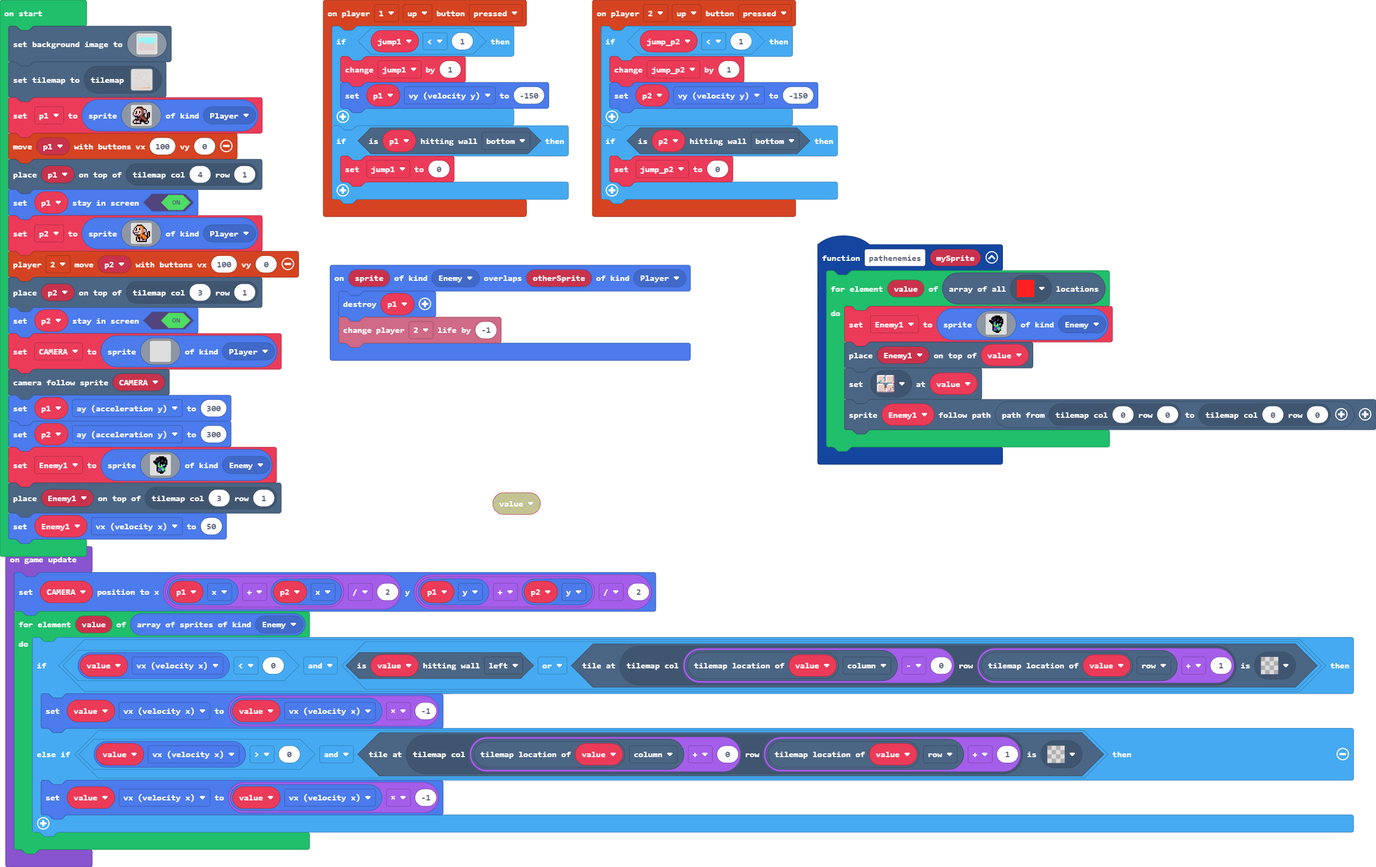
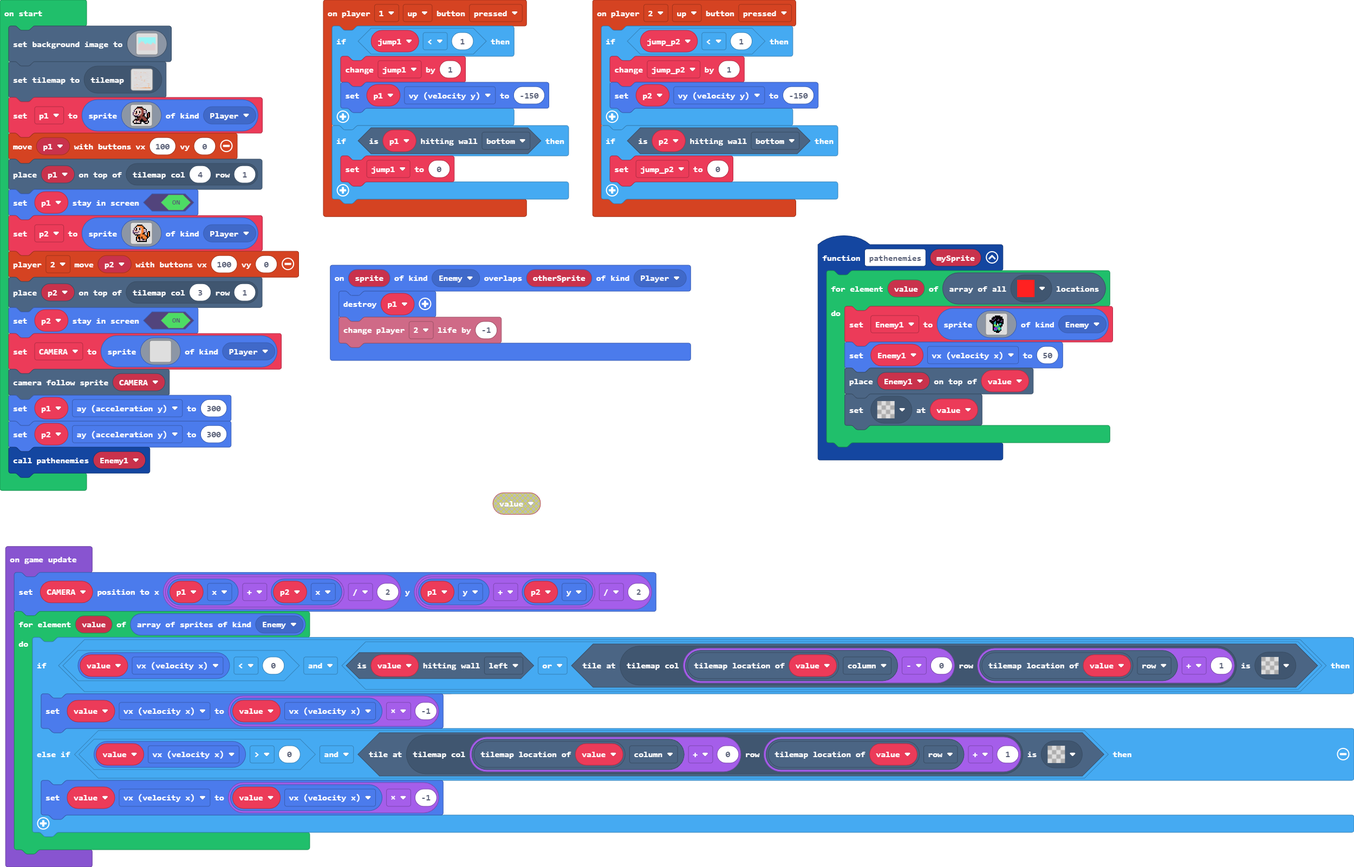
Update main.blocks, main.ts, tilemap.g.jres, tilemap.g.ts

diff --git a/tilemap.g.ts b/tilemap.g.ts
@@ -52,7 +52,7 @@ namespace myTiles {
 . . . . . . . . . . . . . . . . 
 `, [myTiles.transparency16], TileScale.Sixteen);
             case "level2":
-            case "level2":return tiles.createTilemap(hex`6400640000000000000000000000000000000000000000000000000000000000000000000000000000000000000000000000000000000000000000000000000000000000000000000000000000000000000000000000000000000000000000000000000000000000000000000000000000000000000000000000000000000000000000000000000000000000000000000000000000000000000000000000000000000000000000000000000000000000000000000000000000000000000000000000000000000000000000000001010101010101000000000000000000000000000000000000000000000000000000000000000000000000000000000000000000000000000000000000000000000000000000000000000000000000000000000000000000000000000000000000000000000000000000000000000000000000000000000000000000000000000000000000000000000000000000000000000000000000000000000000000000000000000000000000000000000000000000000000000000000000000000000000000000000000000000000000000000000000000000000000000000000000000000000000000000000000000000000000000000000000000000000000000000000000000000000000000000000000000000000000000000000000000000000000000000000000000000000000000000000000010101010101010101010000000000000000000000000000000000000000000000000000000000000000000000000000000000000000000000000000000000000000000001010101010100000000000000000000000000000000000000000000000000000000000000000000000000010101010101010000000000000000000000000000000000000000000000000000000000000000010101010101000000000000000000000000000000000000000000000000000000000000000000000000000000000000000000000000000000000000000000000000000000000001010101010000000000000000000000000000000000000000000000000000000000000000000000000000000000000000000000000000000000000000000000000000000000000000000000000000000000000000000000000000000000000000000000000000000000000000000001010102020202020101000000000000000000000000000000000000000000000000000000000000000001010101010100000000000000000000000000000000010101010101010100000000000000000000000000000000000000000000000000000000000001010101010101000000000000000000000000040202040000000000000000000000000000000000000000000000000000000000000000000000000000000000000000000001010101010000000000000000000000000000000000000000000000000000000000000000000000000101010000000000010101010101000001020202020201010000000000000000000000000000000000000000000000000000000000000000000000000000000000000000000000000000000101010101010101000000000000000000000000000000000000000000000000000000000000000000000101010101010000000000000000000000000000000000000000000000000000000000000000000000000000000000000000000000000000000000000000000000000000000000000000000000000000000000000000000000000000000000000000000000000000000000000000000000000000000000000000000000000000000000000000000000000000000000000000000000000101010101000000000000000000000000000000000000000000000000000000000000000000000000000000000000000000000000000000000000000000000000000000000000000000000000000000000000000000000000000000000000000000000000000000000000000000000000000000000000000000000000000000000000000000000000000101010101000000000000000000000000000000000000000000000000000001010101010101010100000000000000000000000000000000000000000000000000000000000000000000000000010101010101000000000000000000000000000001010100000000000000000000000000000000000000000000000000000000000000000000000000000000000000000000000001040202020404000000000000000000000000000000000000000000000000000000000000000000000000000000000000000000000000000000000000000000000000000000000001010101010000000000000000000000000000000000000000000000010104040101010000000101010101010101010101010101010000000000000000000001010101010101010101000000000000000000000000000000000000000000000001010101010000000101010000000000000000000000000000000000000000000000000000000000000000000000000000000000000000000000000000000000000000000000000000000000000000000000000000000000000001010101010101000000000000000000000000000000000000000000000000000000000000000000000000000000000000000000000000000000000000000000000000000000000000000000000000000000000000000000000000000000000000000000000000000000000000000000000000000000000000000000000000000000000000000000000000000000000000000000000000000000000000000000000000000000000000000000000000000000000000000000000000000000000000000000000000000000000000000000000000000000000000000000000000000000000000000000000000000000000000000000000000000000000000000000000000000000000000000000000000000001010101010100000000000000000000000000000000000000000000000000000000000000000000000000000000000000010100000000000000000000000000000000000000000101010101010101010101000000000000000000000001010101010101000000000000000000000000000000000000000001010101010000000000000000000000000101010000000000000001010101010000000000000000000000000000000000000000000000000000000000000000000000000000000000000000000000000000000000000000000000000101010101000000000000000000000000000000000001010100000000000000000000000000000000000000000000000000000000000000000000000000000000000000000000000000000000000000000000000000000000000000000000000000000000000000000000000000000000000000000000000000000000000000000000000000000000000000000000000100000000000000000000000000000000000000000000000000000000010101010101010000000000000000000000000000000000000000000000000000000000000000000000000000000000000000000000000000000000000000000000000000000000010101010000000000000000000000000000000000000000000000000000000000000000000000000000000000000000010101010000000000000000000000000000000000000000000000000000000000000001010101000000000000000000000000000000000000000000000000000000000000000000000000000000000000000000000000000000000000000000000000000000000000000000000000000000000000000000000000000000000000000000000000000000010100000000000000000000000000000000000000000000000000000000000000000000000000000000000000000000000000000000000000000000000000000000000000000000000000000000000000000000000000000000000000000000000000000000000000000000000000000000000000000000000000000000000000000000000001010101010100000000000001010101010101010000000000000000000000000000000000000000000001010101010101010101000000000000000000000000000000000000000000000000000000000000000000000000000000000000000000000000000000000000000000010101010000000000000000000000000000000001020200000000000101010101010000000000000000000000000000000000000000000000000000000000000000010000000000000000000000000000000000000000000000000000000000000000000000000000000000000000000000000101010101010102020000000000000000000000000000000000000000000000000000000000000000000000000000000101010000000000000000000000000000000000000000000000000000000000000000000000000000000000000000000000000000000000000000000200000000000000000000000000000000000000000000000000000000000001010101010101010100000000000000000000000000000000000000000000000000000000000000000000000000000000000000000000000000000000000000000000000002000000000000000000000000000000000000000000000000000000000000000000000000000000000000000000000000000000000000000000000000000000000000000101010000000000000000000000000000000000000000000000000000000000020000000000000000000000000000000000000000000000000000000000000000000000000000000000000000000000000000000000000000000000000000000000000000000001010101010100000000000000000000000000000000000000000000000200000000000000000000000000000000000000000000000000000000000000000000000000000000000000000000000000000000000000000000000000000000000000000000000000000000000000000000000000000000000000000000000000000002000000000000000000000000000000000000000000000000000000000000000000000000000000000000000000000000000000000000000000000000000000000000000000000000000000000000000000000000010101010101010000000000000000020000000000000000000000000000000000000000000000000000000000000000000000000000000000000000000000000000000000000000000000000000000000000000000000000000000000000000000000000000000000000000000000000000000200000000000000000000000000000000000000000000000000000000000000000000000000000000000000000000000000000000000000000000000000000000000402020202040402020204000000000000000000000000000000000000000000000002000000000000000000000000000000000000000000000000000000000000000000000000000000000000000000000000000000000000000000000000000101010101010101010101010101010101010000000000000000000000000000000000000402020101000000000000000000000000000000000000000000000000000000000000000000000000000000000000000101010000000000000000000000000100000000000000000000000000000000000000000000000000000000000000000000010101010100000000000000000000000000000000000000000000000000000000000000000000000000000001010101010100000000000000000000000000000000000000000000000000000000000000000000000001010101010101010000000000000000000000000000000000000000000000000000000000000000000000000000000000000000000000000101000000000000000000000000000000000000000000000000000000000000000000000000000000000000000000000000000000000000000000000000000000000000000000000000000000000000000000000000000000000000000000000001010100000000000000000000000000000000000000000000000000000000000000000000000000000000000000000000000000000000000000000000000000000000000000000000000000000000000000000000000000000000000000000101010101000000000000000000000000000000000000000000000001010000000000000000000001010100000000000000000000000000000000000000000000000000000000000000000000000000000000000000000000000000000000000000000100000000000000000000000000000000000000000000000000000000000001010100000000000000000001010000000000000000000000000000000000000000000101010101010101010000000000000000000000000000000000000000000000000100000000000000000000000000000000000000000000000000000000000000000000000000000000000000000001010000000000000000000000000000000000000000000000000000000001010101010101000000000000000000000101010000000000000000000000000000000000000000000000000000000000000000000000000000000000000000000000000000000100000000000000000000000004020204000000000000000000000000000000000000000000000000000101010100000000000000000000000000000000000000000000000000000000000000000000000000000000000000000000000000000000000000010000000000000000000101010101010101000000000000000000000000000000000000000000000000000000000000000000000000000000000000000000000000000000000000000000000000000000000000000000000000000000000000000000000001010000000000000000000000000000000000000000000000000000000000000000000000000000000000000000000000000000000000000000000000000000000000000000000000000000000000000000000000000000000000000000000000000000000001010000000000000000000000000000000000000000000000000000000000000000000000000000000002020400000000000000000000000000000000000000000000000000000000000000000000000000000000000000000000000000000000000000000000000000000000000000000000000000000000000000000000000000000000000001010000000002010101010101010101000000000000000000000000000000000000000000000000000000000000000000000000000000000000000000000000000000000000000000000000000000000000000101010101010202020202040000000000000000000000020000000000000000000000000000000000000000000000000000000000000000000000000000000000000000000000000000000000000000000000000000000000000000000000000000000000000000000001010101010101010000000000000000000200000000000000000000000000000000000000000000000000000000000000000000000000000000000000000000000000000000000000000000000000000000000000000000000000000000000000000000000000000000000001010100000000000002000000000000000000000000000000000000000000000000000000000000000000000000000000000000000000000000000000000000000000000101010000000000000000000000000000000000000000000000000000000000000000010000000000020000000000000000000000000101010101010000000000000000000000000000000000000000000000000000000000000000000000000000010100000000000000000000000000000000000000000000000000000000000000000000000000000000000200000000000000000000010100000000000000000000000000000000000000000000000000000000000000000000000000000000000001010000000000000000000000000000000000000000000000000000000000000000000000000000000000000002000000000000000000000000000000000000000000000000000000000000000000000000000000000000000000000000000001010101000000000000000000000000000000000000000000000000000000000000000000000000000000000000000000020000000000000000000000000000000000000000000000000000000000000000000000000000000000000000000000010101000000000000000000000000000000000000000000000000000000000000000000000000000000000000000000000000000200000000000000000000000000000000000000000000000000000000000000000000000000010000000000000000010000000000000000000000000000000000000000000000000000000000000000000000000000000000000000000000000000000402010101010100000000000000000000000000000000000000000000000000000000000000000101010101010000000000000000000000000000000000000000000000000000000000000000000000000000000000000000000000000000000001010101010000000000000000000000000000000000000000000000000000000000000000000000000000000000000000000000000000000000000000000000000000000000000000000000000101000000000000000000000000000000000101010101000000000000000000000000000000000000000000000000000000000000000000000000000000000000000000000000000000000101010101010000000000000000000000000000000001010100000000000000000000000000000000000100000000000000000000000000000000000000000000000000000000000000000000000000000000000000000000000000000000000000000000000000000000000000000000000000000001010101000000000001010101010000000000000000000000000000000000000000000000000000000000000000000000000000000000000000000000000000000000000000000000000000000000000000000000000000000000000000010101010101000000000000000000000000000000000000000000000000000000000000000000000000000000000000000101010000000000000000000000000000000000000000000000000000000001010101010000000000000000000000010101000000000000000000000000000000000000000000000000000000000000000000000000000000000000000000000001010100000000000000000000000000000000000000000000000000000000000000000000000000000000000000000000000000000000000000000000000000000000000000000000000000000001010101010101000000000000000000000000000000000000000000000000000000000000000000000000000000000000000000000000000000000000000001010101010101000000000000000000000000000000000000000000000000000000000000000000000000000000000000000000000000000000000000000000000000000000000000000000000000000000000000000000000000000000000000000000000000000000000000000000000000000000000000000000000000000000000000000000000000000000000000000000000000000000000000000000000000000000000000000000000000000000000000000000000000000000000000000000000000000000000000000000000000000000000000000000000000000000000000000001010101010000000000000000000000000000000000000000000000000000000000000000000000000000000000000000000000000000000000000001010101010101010000000000000000000000000000000000000000000000000000000000000000000000000000000000000000000000000000000000000000000000000000000000000000000000000000000000000000000000000000000000000000000000000000000000000000000000000000000000000000000000000000000000000000000000000000000000000000000101010000000000000000000000000000000000000000000000000000000102020202020202020202020100000000000000000000000000000000000000000000000100000000000000000000000000000000010101010101010101010101010101010100000001000000000000000000000000000000000000000000010101010101010101010101010101010101000000000000000000000000000000000000000101010101000000000000000000000000000000000000000000000000000000000000000000000000000000000000000000000000000000000000010101010000000000000000000000000000000000000101000000000000000000000000000000000000000000000000000000000000000000000000000000000000000000000000000000000000000000000000000000000000000000000000000000000000000000000000000000000000000000000000000000000000000000000000000000000000000000000000000000000000000000000000000001000000000000000000000000000000000000000000000000000000000000000000000000000000000000000000000000000000000000000000000000000000000000000000000000000000000000000000000000000001020202020202010000000000000101010100000000000000000000000000000000000000000000000001010100000000000000000000000000000000000000000000000000000000000000000000000000000000000000000000000000000101010101010101010101010101010000000000000000000000000000000000000000000000000000000000000000000000010000000000000000000000000000000000000000000000000000000000000000000000000000000000000000000000000000000000000000000000000000000000000000000000000000000000000000000000000000000000000000000000000000000000000000000000000000000000000000000000000000000000000000000000000000000000000000000000000000000000000000000000000000000000000000000000000000000000000000000000000000000000000000000000000000000000000000000000000000000000000000000000000000000000000000000202020201000000000000000000000101010202020203030300000000000000000000000000000000000000000000000000000101010101010101010000000000000000000000000000000000000000000000000000000000000000000000000000000002010101000000000000000000000000000001010101010100000000000000000000000000000000010101010101010000000000000000000000000000000000000000000000000000000000000000000000000000000000000000000000000000000000020000000000000000000000000000000000000000000000000000000000000000000000000000000000000000000000000000000000000000000000000000000000000000000000000000000000000000000000000000000000000001010000000000000200000000000000000000000000000000000000000000000000000000000000000000000000000000000000000000000000000000000000000000000001010100000000000000000000000000000000000000000000000001010101000000000000000002000000000000000000000000000000000000000000000000000000000000000000000000000000000000000000000000010000000000000000000000000000010101010000000000000000000000000001010101010101000000000000000000000000020000000000000000000000000000000000000000000001010101010101000100000000000000000000000001010101010000000000000000000000000000000000000000000000000000000001010101000000000000000000000000000000000000000200000000000000000000000000000000000000000000000000000000000101000000000000000000000000000000000000000000010101000000000000000000000000000000000000000000000000000000000000000000000000000000000000000002000000000000000000000000000000000000000000000000000000000000000000000000000000000000000000000000000000000000000101010000000000000000000000000000000000000000000000000000000000000000000000000000000000020000000000000000000000000000000000000000000000000000000000000000000000000000000000010101010000000000000000000000000000000000000000000000000000000000000001010100000000000000000000000000000000000000000200000000000000000000000000010101010101010101010000000000000000000000000000000101010000000001010000000000000000000000000000000000000000000000000001010101000000000000000000000000000000000000000000000002000000000000000000000000000000000000000000000000000000000101000000000000000000000000000000000000000000000000000000000000000000000000000001000000000000000000000000000000000000000000000000000000000100020000000000000000000000000000000000000000000000000000000000010101010100000000000000000000000000000000000000000000000000000000000000000001000000000000000000000000000000000000000000000000000000010100000200000000000000000000000000000000000000000000000000000000000000000000010100000000000000000000000000000000000000000000000000000000010101000000000000000000000000000000000000000000000000000000010000000002000000000000000000000000000000000000000000000000000000000000000000000000010101010000000000000000000000000000000000000000000000000000000000000000000000000000000000000000000000000000000000010000000000020000000000000000000000000000000000000000000000000000000000000000000000000000000001000000000000000000000000000000000000000000000000000000000000000000000000020202020202020202020000000000000000000000000200000002020202020202000000000000000000000000000000000000000000000000000000000000000000000000000000000000000000000000000000000000020202020202020202020202020202020202020202020202020202020202020202020202020202020202020202020000000000000000000000000000000000000000000002020202020000000000000000000000000002020202020202020202020202020202020202020202020202020202020202020202020202020202020202020202020202020202020202020202020202020202020202020202020202020202020202020202020202020202020202020202020202020202020202020202020202020202020202020202020202020202020202020202020202020202020202020202020202020202020202020202020202020202`, img`
+            case "level2":return tiles.createTilemap(hex`6400640000000000000000000000000000000000000000000000000000000000000000000000000000000000000000000000000000000000000000000000000000000000000000000000000000000000000000000000000000000000000000000000000000000000000000000000000000000000000000000000000000000000000000000000000000000000000000000000000000000000000000000000000000000000000000000000000000000000000000000000000000000000000000000000000000000000000000000001010101010101000000000000000000000000000000000000000000000000000000000000000000000000000000000000000000000000000000000000000000000000000000000000000000000000000000000000000000000000000000000000000000000000000000000000000000000000000000000000000000000000000000000000000000000000000000000000000000000000000000000000000000000000000000000000000000000000000000000000000000000000000000000000000000000000000000000000000000050000000000000000000000000000000000000000000000000000000000000000000000000000000000000000000000000000000000000000000000000000000000000000000000000000000000000000000000000000000000000000000000000000010101010101010101010005000000000000000000000000000000000000000000000000000000000000000000000000000000000000000000000000000000000000000001010101010100000000000000000000000000000000000000000000000000000000000000000000000000010101010101010000000000000000000000000000000000000000000000000000000000000000010101010101000000000000000000000000000000000000000000000000000000000000000000000000000000000000000000000000000000000000000000000000000000000001010101010000000000000000000000000000000000000000000000000000000000000000000000000000000000000000000000000000000000000000000000000000000000000000000000000000000000000000000000000000000000000000000000000000000000000000000001010102020202020101000000000000000000000000000000000000000000000000000000000000000001010101010100000000000000000000000000000000010101010101010100000000000000000000000000000000000000000000000000000000000001010101010101000000000000000000000000040202040000000000000000000000000000000000000000000000000000000000000000000000000000000000000000000001010101010000000000000000000000000000000000000000000000000000000000000000000000000101010000000000010101010101000001020202020201010000000000000000000000000000000000000000000000000000000000000000000000000000000000000000000000000000000101010101010101000000000000000000000000000000000000000000000000000000000000000000000101010101010000000000000000000000000000000000000000000000000000000000000000000000000000000000000000000500000000000000000000000000000000000000000000000000000000000000000000000000000000000000000000000000000000000000000000000000000000000000000000000000000000000000000000000000000000000000000000000000000101010101000000000000000000000000000000000000000000000000000000000000000000000000000000000000000000000000000000000000000000000000000000000000000000000000000000000000000000000000000000000000000000000000000000000000000000000000000000000000000000000000000000000000000000000000000101010101000000000000000000000000000000000000000000000000000001010101010101010100000000000000000000000000000000000000000000000000000000000000000000000000010101010101000000000000000000000000000001010100000000000000000000000000000000000000000000000000000000000000000000000000000000000000000000000001040202020404000000000500000000000000000000000000000000000000000000000000000000000000000000000000000000000000000000000000000000000000000000000001010101010000000000000000000000000000000000000000000000010104040101010000000101010101010101010101010101010000000000000000000001010101010101010101000000000000000000000000000000000000000000000001010101010000000101010000000000000000000000000000000000000000000000000000000000000000000000000000000000000000000000000000000000000000000000000000000000000000000000000000000000000001010101010101000000000000000000000000000000000000000000000000000000000000000000000000000000000000000000000000000000000000000000000000000000000000000000000000000000000000000000000000000000000000000000000000000000000000000000000000000000000000000000000000000000000000000000000000000000000000000000000000000000000000000000000000000000000000000000000000000000000000000000000000000000000000000000000000000000000000000000000000000000000000000000000000000000000000000000000000000000000000000000000000000000000000000000000000000000000000000000000000000001010101010100000000000000000000000000000000000000000000000000000000000000000000000000000000000000010100000000000000000000000000000000000000000101010101010101010101000000000000000000000001010101010101000000000000000000000000000000000000000001010101010000000000000000000000000101010000000000000001010101010000000000000000000000000000000000000000000000000000000000000000000000000000000000000000000000000000000000000000000000000101010101000000000000000000000000000000000001010100000000000000000000000000000000000000000000000000000000000000000000000000000000000000000000000000000000000000000000000000000000000000000000000000000000000000000000000000000000000000000000000000000000000000000000000000000000000000000000000100000000000000000000000000000000000000000000000000000000010101010101010000000000000000000000000000000000000000000000000000000000000000000000000000000000000000000000000000000000000000000000000000000000010101010000000000000000000000000000000000000000000000000000000000000000000000000000000000000000010101010000000000000000000000000000000000000000000000000000000000000001010101000000000000000000000000000000000000000000000000000000000000000000000000000000000000000000000000000000000000000000000000000000000000000000000000000000000000000000000000000000000000000000000000000000010100000000000000000000000000000000000000000000000000000000000000000000000000000000000000000000000000000000000000000000000000000000000000000000000000000000000000000000000000000000000000000000000000000000000000000000000000000000000000000000000000000000000000000000000001010101010100000000000001010101010101010000000000000000000000000000000000000000000001010101010101010101000000000000000000000000000000000000000000000000000000000000000000000000000000000000000000000000000000000000000000010101010000000000000000000000000000000001020200000000000101010101010000000000000000000000000000000000000000000000000000000000000000010000000000000000000000000000000000000000000000000000000000000000000000000000000000000000000000000101010101010102020000000000000000000000000000000000000000000000000000000000000000000000000000000101010000000000000000000000000000000000000000000000000000000000000000000000000000000000000000000000000000000000000000000200000000000000000000000000000000000000000000000000000000000001010101010101010100000000000000000000000000000000000000000000000000000000000000000000000000000000000000000000000000000000000000000000000002000000000000000000000000000000000000000000000000000000000000000000000000000000000000000000000000000000000000000000000000000000000000000101010000000000000000000000000000000000000000000000000000000000020000000000000000000000000000000000000000000000000000000000000000000000000000000000000000000000000000000000000000000000000000000000000000000001010101010100000000000000000000000000000000000000000000000200000000000000000000000000000000000000000000000000000000000000000000000000000000000000000000000000000000000000000000000000000000000000000000000000000000000000000000000000000000000000000000000000000002000000000000000000000000000000000000000000000000000000000000000000000000000000000000000000000000000000000000000000000000000000000000000000000000000000000000000000000000010101010101010000000000000000020000000000000000000000000000000000000000000000000000000000000000000000000000000000000000000000000000000000000000000000000000000000000000000000000000000000000000000000000000000000000000000000000000000200000000000000000000000000000000000000000000000000000000000000000000000000000000000000000000000000000000000000000000000000000000000402020202040402020204000000000000000000000000000000000000000000000002000000000000000000000000000000000000000000000000000000000000000000000000000000000000000000000000000000000000000000000000000101010101010101010101010101010101010000000000000000000000000000000000000402020101000000000000000000000000000000000000000000000000000000000000000000000000000000000000000101010000000000000000000000000100000000000000000000000000000000000000000000000000000000000000000000010101010100000000000000000000000000000000000000000000000000000000000000000000000000000001010101010100000000000000000000000000000000000000000000000000000000000000000000000001010101010101010000000000000000000000000000000000000000000000000000000000000000000000000000000000000000000000000101000000000000000000000000000000000000000000000000000000000000000000000000000000000000000000000000000000000000000000000000000000000000000000000000000000000000000000000000000000000000000000000001010100000000000000000000000000000000000000000000000000000000000000000000000000000000000000000000000000000000000000000000000000000000000000000000000000000000000000000000000000000000000000000101010101000000000000000000000000000000000000000000000001010000000000000000000001010100000000000000000000000000000000000000000000000000000000000000000000000000000000000000000000000000000000000000000100000000000000000000000000000000000000000000000000000000000001010100000000000000000001010000000000000000000000000000000000000000000101010101010101010000000000000000000000000000000000000000000000000100000000000000000000000000000000000000000000000000000000000000000000000000000000000000000001010000000000000000000000000000000000000000000000000000000001010101010101000000000000000000000101010000000000000000000000000000000000000000000000000000000000000000000000000000000000000000000000000000000100000000000000000000000004020204000000000000000000000000000000000000000000000000000101010100000000000000000000000000000000000000000000000000000000000000000000000000000000000000000000000000000000000000010000000000000000000101010101010101000000000000000000000000000000000000000000000000000000000000000000000000000000000000000000000000000000000000000000000000000000000000000000000000000000000000000000000001010000000000000000000000000000000000000000000000000000000000000000000000000000000000000000000000000000000000000000000000000000000000000000000000000000000000000000000000000000000000000000000000000000000001010000000000000000000000000000000000000000000000000000000000000000000000000000000002020400000000000000000000000000000000000000000000000000000000000000000000000000000000000000000000000000000000000000000000000000000000000000000000000000000000000000000000000000000000000001010000000002010101010101010101000000000000000000000000000000000000000000000000000000000000000000000000000000000000000000000000000000000000000000000000000000000000000101010101010202020202040000000000000000000000020000000000000000000000000000000000000000000000000000000000000000000000000000000000000000000000000000000000000000000000000000000000000000000000000000000000000000000001010101010101010000000000000000000200000000000000000000000000000000000000000000000000000000000000000000000000000000000000000000000000000000000000000000000000000000000000000000000000000000000000000000000000000000000001010100000000000002000000000000000000000000000000000000000000000000000000000000000000000000000000000000000000000000000000000000000000000101010000000000000000000000000000000000000000000000000000000000000000010000000000020000000000000000000000000101010101010000000000000000000000000000000000000000000000000000000000000000000000000000010100000000000000000000000000000000000000000000000000000000000000000000000000000000000200000000000000000000010100000000000000000000000000000000000000000000000000000000000000000000000000000000000001010000000000000000000000000000000000000000000000000000000000000000000000000000000000000002000000000000000000000000000000000000000000000000000000000000000000000000000000000000000000000000000001010101000000000000000000000000000000000000000000000000000000000000000000000000000000000000000000020000000000000000000000000000000000000000000000000000000000000000000000000000000000000000000000010101000000000000000000000000000000000000000000000000000000000000000000000000000000000000000000000000000200000000000000000000000000000000000000000000000000000000000000000000000000010000000000000000010000000000000000000000000000000000000000000000000000000000000000000000000000000000000000000000000000000402010101010100000000000000000000000000000000000000000000000000000000000000000101010101010000000000000000000000000000000000000000000000000000000000000000000000000000000000000000000000000000000001010101010000000000000000000000000000000000000000000000000000000000000000000000000000000000000000000000000000000000000000000000000000000000000000000000000101000000000000000000000000000000000101010101000000000000000000000000000000000000000000000000000000000000000000000000000000000000000000000000000000000101010101010000000000000000000000000000000001010100000000000000000000000000000000000100000000000000000000000000000000000000000000000000000000000000000000000000000000000000000000000000000000000000000000000000000000000000000000000000000001010101000000000001010101010000000000000000000000000000000000000000000000000000000000000000000000000000000000000000000000000000000000000000000000000000000000000000000000000000000000000000010101010101000000000000000000000000000000000000000000000000000000000000000000000000000000000000000101010000000000000000000000000000000000000000000000000000000001010101010000000000000000000000010101000000000000000000000000000000000000000000000000000000000000000000000000000000000000000000000001010100000000000000000000000000000000000000000000000000000000000000000000000000000000000000000000000000000000000000000000000000000000000000000000000000000001010101010101000000000000000000000000000000000000000000000000000000000000000000000000000000000000000000000000000000000000000001010101010101000000000000000000000000000000000000000000000000000000000000000000000000000000000000000000000000000000000000000000000000000000000000000000000000000000000000000000000000000000000000000000000000000000000000000000000000000000000000000000000000000000000000000000000000000000000000000000000000000000000000000000000000000000000000000000000000000000000000000000000000000000000000000000000000000000000000000000000000000000000000000000000000000000000000000001010101010000000000000000000000000000000000000000000000000000000000000000000000000000000000000000000000000000000000000001010101010101010000000000000000000000000000000000000000000000000000000000000000000000000000000000000000000000000000000000000000000000000000000000000000000000000000000000000000000000000000000000000000000000000000000000000000000000000000000000000000000000000000000000000000000000000000000000000000000101010000000000000000000000000000000000000000000000000000000102020202020202020202020100000000000000000000000000000000000000000000000100000000000000000000000000000000010101010101010101010101010101010100000001000000000000000000000000000000000000000000010101010101010101010101010101010101000000000000000000000000000000000000000101010101000000000000000000000000000000000000000000000000000000000000000000000000000000000000000000000000000000000000010101010000000000000000000000000000000000000101000000000000000000000000000000000000000000000000000000000000000000000000000000000000000000000000000000000000000000000000000000000000000000000000000000000000000000000000000000000000000000000000000000000000000000000000000000000000000000000000000000000000000000000000000001000000000000000000000000000000000000000000000000000000000000000000000000000000000000000000000000000000000000000000000000000000000000000000000000000000000000000000000000000001020202020202010000000000000101010100000000000000000000000000000000000000000000000001010100000000000000000000000000000000000000000000000000000000000000000000000000000000000000000000000000000101010101010101010101010101010000000000000000000000000000000000000000000000000000000000000000000000010000000000000000000000000000000000000000000000000000000000000000000000000000000000000000000000000000000000000000000000000000000000000000000000000000000000000000000000000000000000000000000000000000000000000000000000000000000000000000000000000000000000000000000000000000000000000000000000000000000000000000000000000000000000000000000000000000000000000000000000000000000000000000000000000000000000000000000000000000000000000000000000000000000000000000000202020201000000000000000000000101010202020203030300000000000000000000000000000000000000000000000000000101010101010101010000000000000000000000000000000000000000000000000000000000000000000000000000000002010101000000000000000000000000000001010101010100000000000000000000000000000000010101010101010000000000000000000000000000000000000000000000000000000000000000000000000000000000000000000000000000000000020000000000000000000000000000000000000000000000000000000000000000000000000000000000000000000000000000000000000000000000000000000000000000000000000000000000000000000000000000000000000001010000000000000200000000000000000000000000000000000000000000000000000000000000000000000000000000000000000000000000000000000000000000000001010100000000000000000000000000000000000000000000000001010101000000000000000002000000000000000000000000000000000000000000000000000000000000000000000000000000000000000000000000010000000000000000000000000000010101010000000000000000000000000001010101010101000000000000000000000000020000000000000000000000000000000000000000000001010101010101000100000000000000000000000001010101010000000000000000000000000000000000000000000000000000000001010101000000000000000000000000000000000000000200000000000000000000000000000000000000000000000000000000000101000000000000000000000000000000000000000000010101000000000000000000000000000000000000000000000000000000000000000000000000000000000000000002000000000000000000000000000000000000000000000000000000000000000000000000000000000000000000000000000000000000000101010000000000000000000000000000000000000000000000000000000000000000000000000000000000020000000000000000000000000000000000000000000000000000000000000000000000000000000000010101010000000000000000000000000000000000000000000000000000000000000001010100000000000000000000000000000000000000000200000000000000000000000000010101010101010101010000000000000000000000000000000101010000000001010000000000000000000000000000000000000000000000000001010101000000000000000000000000000000000000000000000002000000000000000000000000000000000000000000000000000000000101000000000000000000000000000000000000000000000000000000000000000000000000000001000000000000000000000000000000000000000000000000000000000100020000000000000000000000000000000000000000000000000000000000010101010100000000000000000000000000000000000000000000000000000000000000000001000000000000000000000000000000000000000000000000000000010100000200000000000000000000000000000000000000000000000000000000000000000000010100000000000000000000000000000000000000000000000000000000010101000000000000000000000000000000000000000000000000000000010000000002000000000000000000000000000000000000000000000000000000000000000000000000010101010000000000000000000000000000000000000000000000000000000000000000000000000000000000000000000000000000000000010000000000020000000000000000000000000000000000000000000000000000000000000000000000000000000001000000000000000000000000000000000000000000000000000000000000000000000000020202020202020202020000000000000000000000000200000002020202020202000000000000000000000000000000000000000000000000000000000000000000000000000000000000000000000000000000000000020202020202020202020202020202020202020202020202020202020202020202020202020202020202020202020000000000000000000000000000000000000000000002020202020000000000000000000000000002020202020202020202020202020202020202020202020202020202020202020202020202020202020202020202020202020202020202020202020202020202020202020202020202020202020202020202020202020202020202020202020202020202020202020202020202020202020202020202020202020202020202020202020202020202020202020202020202020202020202020202020202020202`, img`
 ....................................................................................................
 ....................................................................................................
 22222222............................................................................................
@@ -153,7 +153,7 @@ namespace myTiles {
 ....................................................................................................
 ....................................................................................................
 ....................................................................................................
-`, [myTiles.transparency16,sprites.dungeon.floorLight0,myTiles.tile2,sprites.dungeon.floorLight4,sprites.dungeon.floorLight2], TileScale.Sixteen);
+`, [myTiles.transparency16,sprites.dungeon.floorLight0,myTiles.tile2,sprites.dungeon.floorLight4,sprites.dungeon.floorLight2,myTiles.tile1], TileScale.Sixteen);
         }
         return null;
     })

diff --git a/main.ts b/main.ts
@@ -27,9 +27,9 @@ function pathenemies (mySprite: Sprite) {
             . . . . f f f f f f . . . 
             . . . . . . f f f . . . . 
             `, SpriteKind.Enemy)
+        Enemy1.vx = 50
         tiles.placeOnTile(Enemy1, value)
-        tiles.setTileAt(value, sprites.dungeon.floorLightMoss)
-        scene.followPath(Enemy1, scene.aStar(tiles.getTileLocation(0, 0), tiles.getTileLocation(0, 0)))
+        tiles.setTileAt(value, assets.tile`transparency16`)
     }
 }
 controller.player2.onButtonEvent(ControllerButton.Up, ControllerButtonEvent.Pressed, function () {
@@ -236,26 +236,7 @@ let CAMERA = sprites.create(img`
 scene.cameraFollowSprite(CAMERA)
 p1.ay = 300
 p2.ay = 300
-Enemy1 = sprites.create(img`
-    . . . . . f f f f f . . . 
-    . . . f f f f f f f f f . 
-    . . f f f c f f f f f f . 
-    . . f f c f f f c f f f f 
-    f f c c f f f c c f f c f 
-    f f f f f 6 f f f f c c f 
-    . f f f 6 6 f f f f f f f 
-    . . f f 6 6 f b f 6 6 f f 
-    . . . f 7 7 f 1 6 7 6 f . 
-    . . . f 7 7 7 7 6 f f f . 
-    . . . f f 6 6 6 6 6 f . . 
-    . . . f a a a 6 7 7 6 . . 
-    . . . f a a a 6 7 7 6 . . 
-    . . . f 6 6 6 f 6 6 f . . 
-    . . . . f f f f f f . . . 
-    . . . . . . f f f . . . . 
-    `, SpriteKind.Enemy)
-tiles.placeOnTile(Enemy1, tiles.getTileLocation(3, 1))
-Enemy1.vx = 50
+pathenemies(Enemy1)
 game.onUpdate(function () {
     CAMERA.setPosition((p1.x + p2.x) / 2, (p1.y + p2.y) / 2)
     for (let value of sprites.allOfKind(SpriteKind.Enemy)) {
